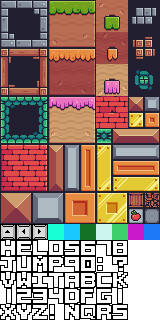
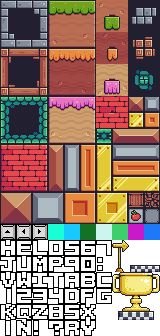
Modified main asset

diff --git a/core/assets/NinjaFrogAsset.tsx b/core/assets/NinjaFrogAsset.tsx
@@ -1,4 +1,4 @@
 <?xml version="1.0" encoding="UTF-8"?>
-<tileset version="1.4" tiledversion="1.4.3" name="NinjaFrogAsset" tilewidth="16" tileheight="16" tilecount="200" columns="10">
- <image source="NinjaFrogAsset.png" width="160" height="320"/>
+<tileset version="1.4" tiledversion="1.4.3" name="NinjaFrogAsset" tilewidth="16" tileheight="16" tilecount="210" columns="10">
+ <image source="NinjaFrogAsset.png" width="160" height="336"/>
 </tileset>
